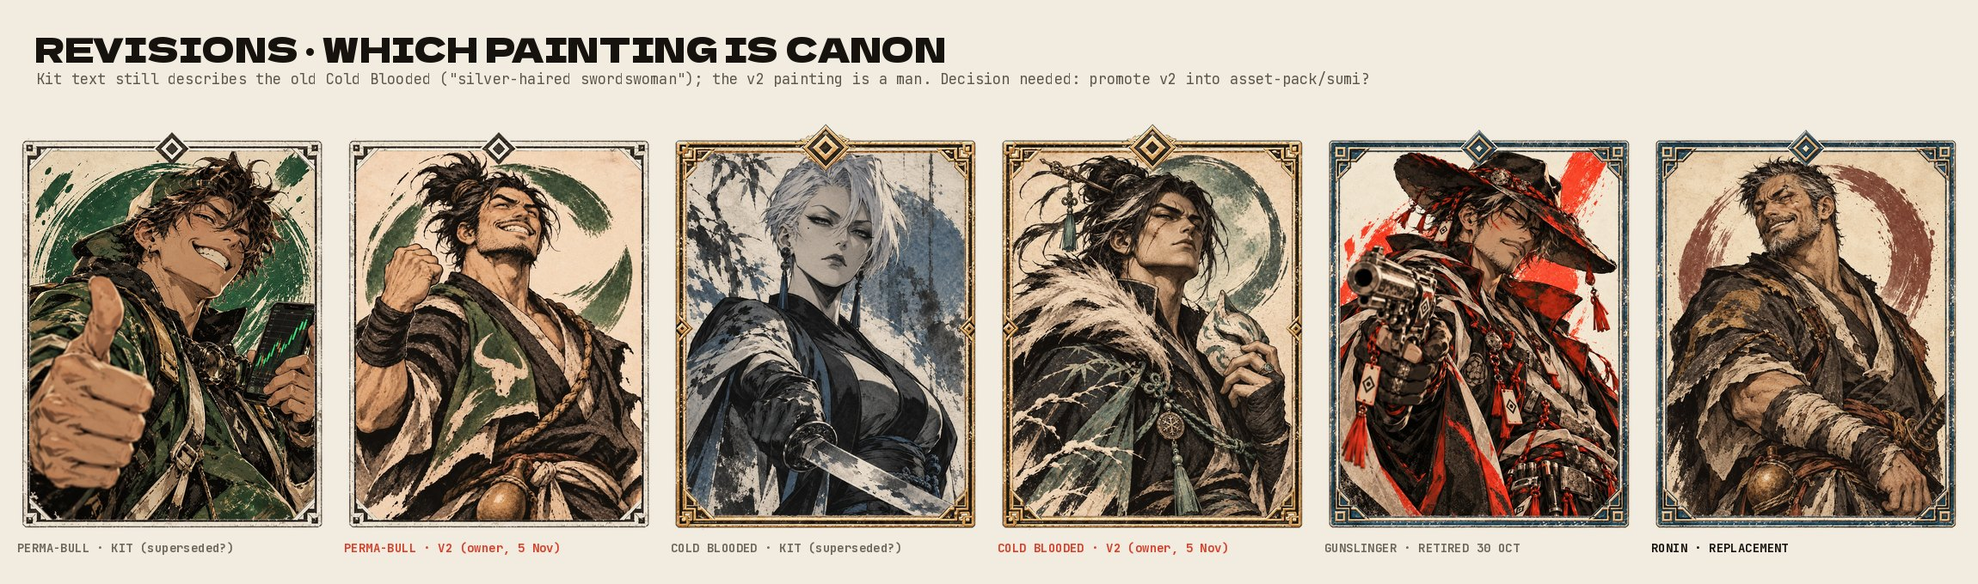
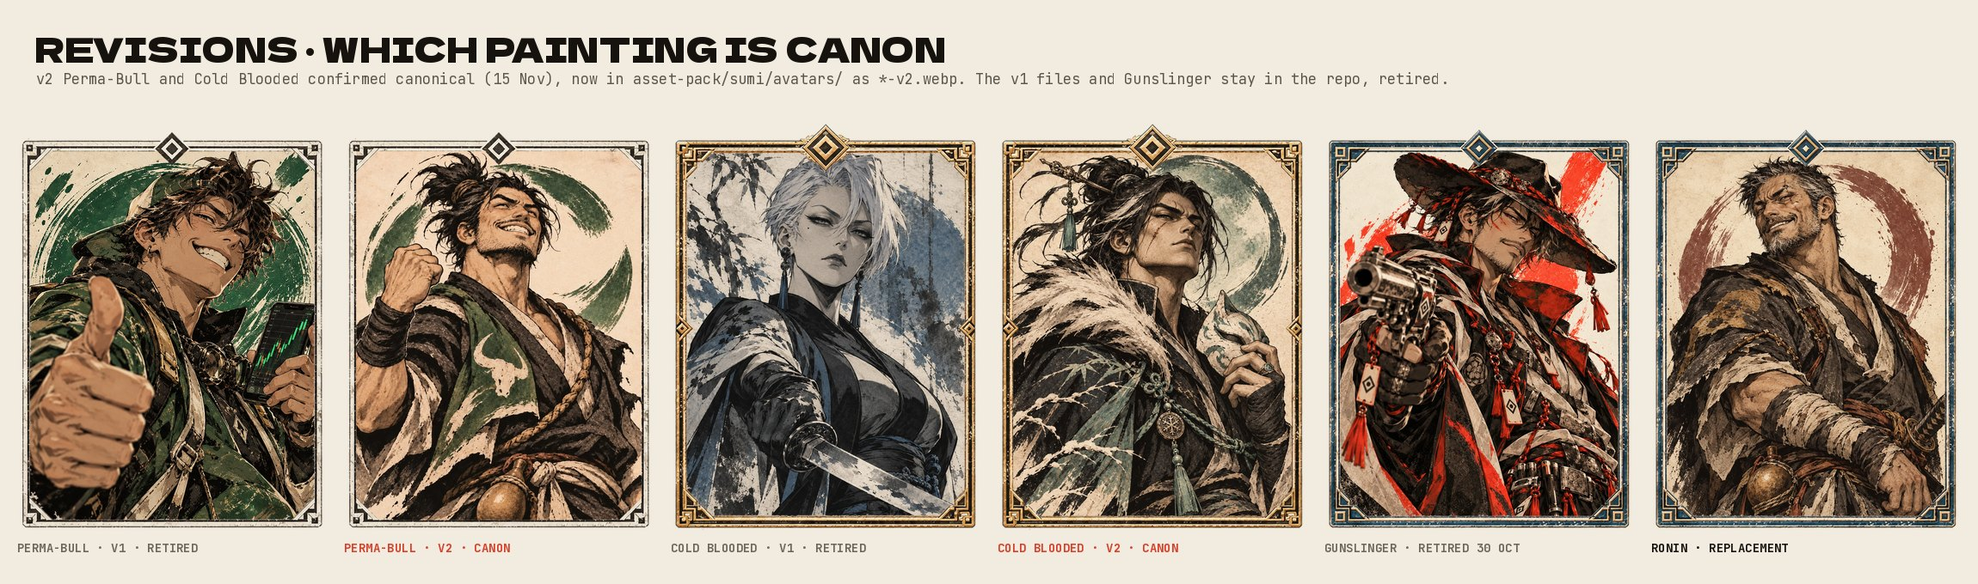
Audit docs: record the owner's 15 Nov decisions
v2 Perma-Bull and Cold Blooded canon (v1 retired), HYPE is the Elysium stake, kanji review done, USDC casting
confirmed (Perma-Bull vs Paper Hands), no merge to master yet. Inventory and contact sheets regenerated.

Claude-Session: https://claude.ai/code/session_0165shiYce6hk5U5g2i29oMM

diff --git a/docs/asset-audit/tools/contact_sheets.py b/docs/asset-audit/tools/contact_sheets.py
@@ -77,12 +77,13 @@ def kit_roster():
     return rows
 
 
-V2 = {'starter-perma-bull': 'film-flagship/assets/cast/source/starter-perma-bull.webp',
-      'cold-blooded': 'film-flagship/assets/cast/source/cold-blooded.webp'}
+# The flagship's cut-outs keep the pre-v2 ids for the two repainted characters.
+CAST_ID = {'starter-perma-bull-v2': 'starter-perma-bull', 'cold-blooded-v2': 'cold-blooded'}
+V2 = set(CAST_ID)
 
 
 def card_for(cid):
-    return blob(FLAG, V2[cid]) if cid in V2 else local(f'{KIT}/avatars/cards/{cid}.webp')
+    return local(f'{KIT}/avatars/cards/{cid}.webp')
 
 
 def sheet_cast(roster):
@@ -93,12 +94,12 @@ def sheet_cast(roster):
     for i, r in enumerate(roster):
         x, y = pad + (i % cols) * (cw + pad), pad + (i // cols) * (ch + lh + pad)
         grid.paste(fit(card_for(r['id']), cw, ch, PAPER + (255,)).convert('RGB'), (x, y))
-        tag = ' (v2, 5 Nov)' if r['id'] in V2 else ''
+        tag = ' (v2)' if r['id'] in V2 else ''
         d.text((x, y + ch + 6), r['name'].upper() + tag, font=f(FONT, 15), fill=RED if tag else INK)
         d.text((x, y + ch + 28), f"{r['fam']} · {r['unlock']}"[:40], font=f(FONT_R, 12), fill=MUTED)
         d.text((x, y + ch + 44), r['id'] + '.webp', font=f(FONT_R, 11), fill=OUTC)
-    h = header(W, 'THE CAST · CURRENT (28)', 'asset-pack/sumi/avatars/cards/*.webp 1536x2048 · red label = owner v2 painting, '
-               f'only on {FLAG.split("/", 1)[1]}:film-flagship/assets/cast/source/')
+    h = header(W, 'THE CAST · CURRENT (28)', 'asset-pack/sumi/avatars/cards/*.webp 1536x2048 · red label = v2 painting '
+               '(owner, 5 Nov; confirmed canonical 15 Nov)')
     stack([h, grid]).save(os.path.join(OUT, '01-cast-current.jpg'), quality=86)
 
 
@@ -112,11 +113,12 @@ def sheet_cutouts(roster):
     grid = Image.new('RGB', (W, rows * (ch + lh + pad) + pad), PAPER); d = ImageDraw.Draw(grid)
     for i, r in enumerate(roster):
         x, y = pad + (i % cols) * (pair + pad), pad + (i // cols) * (ch + lh + pad)
-        fig = blob(FLAG, f'film-flagship/assets/cast/{r["id"]}-fig.webp')
-        plate = blob(FLAG, f'film-flagship/assets/cast/{r["id"]}-plate.webp')
+        cid = CAST_ID.get(r['id'], r['id'])
+        fig = blob(FLAG, f'film-flagship/assets/cast/{cid}-fig.webp')
+        plate = blob(FLAG, f'film-flagship/assets/cast/{cid}-plate.webp')
         cb = checker(cw, ch); cb.alpha_composite(fit(fig, cw, ch)); grid.paste(cb.convert('RGB'), (x, y))
         grid.paste(fit(plate, cw, ch, PAPER + (255,)).convert('RGB'), (x + cw + 6, y))
-        j = J[r['id']]
+        j = J[cid]
         a = fig.convert('RGBA').getchannel('A'); hist = a.histogram(); n = fig.width * fig.height
         cover = 1 - sum(hist[:8]) / n
         cut = 'FULL' if j['fig'][1] + j['fig'][3] < j['paint'][1] - 20 else 'CROPPED AT FRAME'
@@ -128,10 +130,10 @@ def sheet_cutouts(roster):
 
 
 def sheet_revisions():
-    pairs = [('PERMA-BULL · KIT (superseded?)', local(f'{KIT}/avatars/cards/starter-perma-bull.webp'), OUTC),
-             ('PERMA-BULL · V2 (owner, 5 Nov)', blob(FLAG, V2['starter-perma-bull']), RED),
-             ('COLD BLOODED · KIT (superseded?)', local(f'{KIT}/avatars/cards/cold-blooded.webp'), OUTC),
-             ('COLD BLOODED · V2 (owner, 5 Nov)', blob(FLAG, V2['cold-blooded']), RED),
+    pairs = [('PERMA-BULL · V1 · RETIRED', local(f'{KIT}/avatars/cards/starter-perma-bull.webp'), OUTC),
+             ('PERMA-BULL · V2 · CANON', local(f'{KIT}/avatars/cards/starter-perma-bull-v2.webp'), RED),
+             ('COLD BLOODED · V1 · RETIRED', local(f'{KIT}/avatars/cards/cold-blooded.webp'), OUTC),
+             ('COLD BLOODED · V2 · CANON', local(f'{KIT}/avatars/cards/cold-blooded-v2.webp'), RED),
              ('GUNSLINGER · RETIRED 30 OCT', local(f'{KIT}/avatars/cards/gunslinger.webp'), OUTC),
              ('RONIN · REPLACEMENT', local(f'{KIT}/avatars/cards/ronin.webp'), INK)]
     cw, ch, pad, lh = 360, 480, 20, 40
@@ -141,8 +143,8 @@ def sheet_revisions():
         x = pad + i * (cw + pad)
         g.paste(fit(im, cw, ch, PAPER + (255,)).convert('RGB'), (x, pad))
         d.text((x, pad + ch + 8), t, font=f(FONT, 14), fill=col)
-    h = header(W, 'REVISIONS · WHICH PAINTING IS CANON', 'Kit text still describes the old Cold Blooded '
-               '("silver-haired swordswoman"); the v2 painting is a man. Decision needed: promote v2 into asset-pack/sumi?')
+    h = header(W, 'REVISIONS · WHICH PAINTING IS CANON', 'v2 Perma-Bull and Cold Blooded confirmed canonical (15 Nov), now in '
+               'asset-pack/sumi/avatars/ as *-v2.webp. The v1 files and Gunslinger stay in the repo, retired.')
     stack([h, g]).save(os.path.join(OUT, '03-cast-revisions.jpg'), quality=86)
 
 

diff --git a/docs/asset-audit/tools/inventory.py b/docs/asset-audit/tools/inventory.py
@@ -103,8 +103,8 @@ def classify(path, branch):
             return X, 'high', f'Gunslinger {form}: retired, replaced by Ronin (kit README)'
         name = KIT_DESC.get(stem, (stem, '?', ''))
         if stem in ('starter-perma-bull', 'cold-blooded'):
-            return U, 'medium', (f'{name[0]} {form}. Kit version; the owner committed a newer painting (v2) on the '
-                                 f'flagship branches on 5 Nov, used in the locked first ad. Probably superseded')
+            return X, 'high', (f'{stem} {form}: retired, replaced by the owner\'s v2 painting (confirmed canonical '
+                               f'15 Nov; the kit README names it)')
         return A, 'high', f'{name[0]} ({name[1]}) {form}: {name[2]}'
     if p.startswith('asset-pack/sumi/logo/'):
         if 'cyan' in b: return X, 'high', 'Retired cyan Y raster. Only allowed as the "before" shot of the 予知 reveal'
@@ -165,10 +165,10 @@ def classify(path, branch):
     # --- Branch-only Sumi-era assets ---
     if branch:
         if '/cast/source/' in p:
-            return L, 'high', ('Owner-supplied v2 painting (5 Nov), used in the flagship and the locked first ad; '
-                               'not yet in asset-pack/sumi')
+            return L, 'high', ('Copy of the owner\'s v2 painting inside the flagship project (canonical copy now in '
+                               'asset-pack/sumi/avatars/)')
         if '/avatars/portraits/' in p and '-v2' in b and ('perma' in b or 'cold' in b):
-            return L, 'high', 'Owner v2 portrait (app framing), used in the locked first ad'
+            return L, 'high', 'Copy of the kit\'s v2 portrait used for app-framed slots in the locked first ad'
         if '/avatars/portraits/' in p:
             return A, 'high', 'Copy of the kit portrait used for app-framed small slots in the locked first ad'
         if '/cast/raw/' in p:

diff --git a/docs/asset-audit/ASSET_INVENTORY.md b/docs/asset-audit/ASSET_INVENTORY.md
@@ -1,6 +1,6 @@
 # Yochi asset inventory (15 Nov 2026)
 
-The full per-file list (658 assets: path, branch, dimensions, transparency, duration, first/last commit, author,
+The full per-file list (662 assets: path, branch, dimensions, transparency, duration, first/last commit, author,
 tier, confidence, purpose) is **`inventory.csv`**, generated by `tools/inventory.py`. This file summarises it and
 records the evidence behind each tier.
 
@@ -20,6 +20,8 @@ records the evidence behind each tier.
   - 5 Nov: the owner adds **v2 paintings of Perma-Bull and Cold Blooded**, but only into `film-flagship/assets/cast/source/` on the flagship branches.
   - 5–7 Nov: the YOCHI × ELYSIUM cards (landscape v3 **approved**), owner-supplied official Elysium marks, the owner's 4K capture pack, the gameplay trailers.
   - 14 Nov: the USDC short (v1, under review).
+  - 15 Nov: the owner confirms v2 Perma-Bull and Cold Blooded as canon (now in the kit), HYPE as the Elysium stake,
+    the kanji review as done, and the casting for the USDC rework. No merge to `master` yet.
 - **`master` stops at 3 Nov.** None of the Sumi films are merged. Approval is recorded in the branches' own READMEs
   ("the approved flagship", "the approved cut", "The locked film"), not by merges. That's adequate evidence, but
   it's indirect (see OPEN_DECISIONS).
@@ -29,8 +31,9 @@ records the evidence behind each tier.
 | asset | path | dims · alpha | provenance | confidence |
 |---|---|---|---|---|
 | **Brand rules** | `asset-pack/sumi/SHARED-RULES.md`, `asset-pack/sumi/README.md` | text | PinkMammoth, 28 Oct (`8a2fc71`) | high: the documented source of truth |
-| **Painted cast: 26 cards** | `asset-pack/sumi/avatars/cards/<id>.webp` (all but Gunslinger, Perma-Bull, Cold Blooded) | 1536×2048 · transparent card corners only (~8%) | PinkMammoth, 28 Oct | high |
-| **Painted cast: 26 portraits** | `asset-pack/sumi/avatars/portraits/<id>.webp` | 512×683 · opaque | same | high (small slots only: too soft for full frame) |
+| **Painted cast: 28 cards** | `asset-pack/sumi/avatars/cards/<id>.webp`, ids as in the kit README's cast table | 1536×2048 · transparent card corners only (~8%) | PinkMammoth, 28 Oct; v2 below | high |
+| **Painted cast: 28 portraits** | `asset-pack/sumi/avatars/portraits/<id>.webp` | 512×683 · opaque | same | high (small slots only: too soft for full frame) |
+| **Perma-Bull v2, Cold Blooded v2** | `asset-pack/sumi/avatars/{cards,portraits}/{starter-perma-bull,cold-blooded}-v2.webp` | as above | painted by the owner 5 Nov (`e2ad110`, on the flagship branches); confirmed canon and copied into the kit 15 Nov (`b43ee50`), byte-identical | high |
 | Ronin card + portrait | `…/cards/ronin.webp`, `…/portraits/ronin.webp` | as above | PinkMammoth, 30 Oct (`99cb12b`) | high |
 | **Yochi seal (main mark)** | `asset-pack/sumi/logo/yochi-seal-paper.svg`, `yochi-seal-sumi.svg` | vector, transparent | 28 Oct | high |
 | Yochi plain mark | `asset-pack/sumi/logo/yochi-mark-paper.svg`, `yochi-mark-sumi.svg` | vector | 28 Oct | high |
@@ -50,7 +53,7 @@ records the evidence behind each tier.
 
 | asset | path | dims · alpha | evidence | confidence |
 |---|---|---|---|---|
-| **Perma-Bull v2, Cold Blooded v2 paintings** | `claude/yochi-first-ad-order-a:film-flagship/assets/cast/source/{starter-perma-bull,cold-blooded}.webp` (+ `-portrait.webp`) and `assets/avatars/portraits/*-v2.webp` | 1536×2048 card; 512×683 portrait | owner-added 5 Nov (`e2ad110`), used in the locked first ad | high that they're current; **not yet in the kit** |
+| Flagship copies of the v2 paintings | `claude/yochi-first-ad-order-a:film-flagship/assets/cast/source/*.webp`, `assets/avatars/portraits/*-v2.webp` | 1536×2048; 512×683 | byte copies of the kit's v2 files | high (use the kit copy) |
 | **Cast cut-outs (2.5D layers)** | `…:film-flagship/assets/cast/<id>-fig.webp` (alpha), `<id>-plate.webp`, `<id>-card.webp`, `cast.json`, `raw/` mattes | ~1353×1807 fig (70–98% fill), 1044×1371 plate, 768×1024 card | built 3 Nov for THE CAST, reused in approved films | high (see the matte defects in ANIMATION_FEASIBILITY) |
 | App crop windows | `…:film-flagship/assets/avatars/crops.json` | | from `avatar-roster.ts` | high |
 | Achievement badges | `…:film-flagship/assets/achievements/{cold_blooded,duel_win_10}.webp` | 256×256, alpha | copied from the app | medium-high |
@@ -66,13 +69,11 @@ records the evidence behind each tier.
 
 | asset | why |
 |---|---|
-| `asset-pack/sumi/avatars/{cards,portraits}/starter-perma-bull.webp`, `…/cold-blooded.webp` | Probably superseded by the owner's v2 paintings, which aren't in the kit yet. The kit README still describes Cold Blooded as a "silver-haired swordswoman"; v2 is a man. See `contact-sheets/03-cast-revisions.jpg` |
 | `asset-pack/audio/trailer.wav` | The September track. The v2 prompts still name it as a fallback for THE CAST, but no Sumi film uses it |
 | `shorts/01-usdc-eliminated/deliverables/*` | v1 of the USDC short: invented pixel fighters, so off-brand (see USDC_HYPE_REWORK_PLAN) |
 | `shorts/src/films/usdc/cast.js`, `shorts/src/lib/pixel.js`, `pixfont.js` | Pixel-art sprite kit and pixel font. Not part of the brand; don't reuse for cast work |
 | `claude/keen-rubin-vpzk4u:film-yochi/` | 17 Oct 予知 sumi-e film, made before the kit and never carried forward. Its brush approach was rebuilt in the flagship's `brush.js`. Don't treat it as current rules |
-| Kanji 氷 and 師 in the first ad | From the app's glyph registry (`seal-glyphs.ts`), but outside SHARED-RULES' allowed list. All glyphs are pending native review |
-| 遊 on Grudge Settled's painting | Part of the artwork, flagged for the kanji review |
+| 遊 on Grudge Settled's painting | Part of the artwork. The 15 Nov answer ("they're fine") covered the glyphs the films use; whether it covered this one isn't recorded |
 
 ## LEGACY / DO NOT USE
 
@@ -90,6 +91,7 @@ history only. Nothing was deleted or moved. See `contact-sheets/05-legacy-do-not
 | Retired fonts and palette | `fonts+colours.md` (Chakra Petch, VT323, cyan `#18e0ff`), `film/assets/fonts/` |
 | September trailer and its brief | `film/**` (incl. `CHARACTER_AUDIT.md`, `TREATMENT.md`), `prompt.md`, `asset-pack/audio/{music-structure.md,waveform.png}` |
 | Gunslinger | `asset-pack/sumi/avatars/{cards,portraits}/gunslinger.webp` (replaced by Ronin) |
+| Perma-Bull v1, Cold Blooded v1 (the silver-haired swordswoman) | `asset-pack/sumi/avatars/{cards,portraits}/{starter-perma-bull,cold-blooded}.webp` (replaced by v2, 15 Nov) |
 
 ## Gaps
 

diff --git a/docs/YOCHI_MOTION_STYLE_GUIDE.md b/docs/YOCHI_MOTION_STYLE_GUIDE.md
@@ -21,8 +21,8 @@ on one, it says so.
 
 | need | use | notes |
 |---|---|---|
-| Characters, full frame | `asset-pack/sumi/avatars/cards/<id>.webp` (1536×2048) | **except** Perma-Bull and Cold Blooded: use the owner's v2 at `claude/yochi-first-ad-order-a:film-flagship/assets/cast/source/` (OPEN_DECISIONS #2) |
-| Characters, layered for 2.5D | `claude/yochi-first-ad-order-a:film-flagship/assets/cast/<id>-{fig,plate,card}.webp` + `cast.json` | figure cut-out with alpha, its own ground plate, head point. Check the defects in `docs/asset-audit/ANIMATION_FEASIBILITY.md` |
+| Characters, full frame | `asset-pack/sumi/avatars/cards/<id>.webp` (1536×2048), ids as in the kit README's cast table | Perma-Bull and Cold Blooded are **v2** (`starter-perma-bull-v2.webp`, `cold-blooded-v2.webp`). The v1 files are retired |
+| Characters, layered for 2.5D | `claude/yochi-first-ad-order-a:film-flagship/assets/cast/<id>-{fig,plate,card}.webp` + `cast.json` | figure cut-out with alpha, its own ground plate, head point. Not merged to `master` yet, by decision. Its `starter-perma-bull` and `cold-blooded` entries are already cut from v2. Check the defects in `docs/asset-audit/ANIMATION_FEASIBILITY.md` |
 | Characters, small slots / avatars | `asset-pack/sumi/avatars/portraits/<id>.webp` + the app's crop window (`film-flagship/assets/avatars/crops.json` / `reference/code/avatar-roster.ts`) | 512×683, too soft above ~300 px |
 | Main logo | `asset-pack/sumi/logo/yochi-seal-paper.svg` / `yochi-seal-sumi.svg` | stamps down like a win, never redrawn, never cyan |
 | Small lockup | `asset-pack/sumi/logo/yochi-mark-paper.svg` / `-sumi.svg` + YOCHI in Dela Gothic One | |
@@ -41,6 +41,7 @@ Visual references: `docs/asset-audit/contact-sheets/01-cast-current.jpg` (the ca
 
 **Never use:** anything in `asset-pack/characters/`, `asset-pack/avatars/`, `asset-pack/props/`,
 `asset-pack/raw-clips/`, `stills/`, `film/assets/`, the 16:9 mode cards, `Yochi_logo.png`, `gunslinger.webp`,
+the v1 `starter-perma-bull.webp` and `cold-blooded.webp`,
 `fonts+colours.md`'s fonts and palette, or the shorts' pixel sprite kit for cast work. The full list is in
 `docs/asset-audit/ASSET_INVENTORY.md`.
 
@@ -59,10 +60,13 @@ Visual references: `docs/asset-audit/contact-sheets/01-cast-current.jpg` (the ca
 - **Candles are standard OHLC**: green `#3ddc84` / crimson `#ff4d6d` (paper `#15804a` / `#c2304d`). No brush, pixel
   or stylised candles.
 - **Gold `#e0b25a`** is for tier metal only.
-- **Kanji:** only the allowed list (予知 対 決 勝 敗 命 連勝), all pending native review. List every glyph and
-  timecode in the film's README. (The app registry's 氷 / 師 are an open question: OPEN_DECISIONS #5.)
+- **Kanji:** only the allowed list (予知 対 決 勝 敗 命 連勝, plus 氷 for Cold Blooded and 師 for Duel Master).
+  The native review is done and these are fine. Any other glyph needs review first. List every glyph and timecode
+  in the film's README.
 - **Copy:** UP / DOWN, never PUMP / DUMP. "Call" only in the tagline, CALLED IT and YOUR CALL. No em-dashes, no "X. Y."
-  slogans, none of the banned words, a 5% rake, money in USDC, invented lowercase handles.
+  slogans, none of the banned words, a 5% rake, invented lowercase handles.
+- **Money:** USDC everywhere, **except on Elysium, where the stake is HYPE** (owner, 15 Nov). Yochi × Elysium
+  films may show HYPE as what players put in and take from the pot. Don't carry that into non-Elysium films.
 - **Restraint:** drama from scale, timing and silence. Grain and paper are welcome; glow only on a fresh win amount.
 
 ## 3. Typography and layout constraints
@@ -93,8 +97,8 @@ Measured limits (check with `docs/asset-audit/tools/text_audit.mjs`):
 
 ## 4. Characters
 
-- **Only the 28 painted characters** in the kit's cast table (Ronin included, Gunslinger retired; v2 Perma-Bull and
-  Cold Blooded, OPEN_DECISIONS #2). Use their names exactly.
+- **Only the 28 painted characters** in the kit's cast table (Ronin included; v2 Perma-Bull and v2 Cold Blooded,
+  a man; Gunslinger and both v1 paintings retired). Use their names exactly.
   **Never invent a character, repaint, recolour, redraw or restyle one** (pixel, 3D, vector, "inspired by").
 - Allowed operations: crop, mask, layer, parallax, scale, move, grade to grey for a loss, ink silhouette for a
   locked reward, round face crop, card deal and flip.

diff --git a/docs/asset-audit/OPEN_DECISIONS.md b/docs/asset-audit/OPEN_DECISIONS.md
@@ -1,28 +1,16 @@
-# Decisions needed (asset audit, 15 Nov 2026)
+# Decisions (asset audit, 15 Nov 2026)
 
-Ordered by what blocks the USDC rework first. Each has a recommendation; nothing has been decided on your behalf.
+## Resolved (owner, 15 Nov 2026)
 
-1. **Who fights in the USDC short?** Recommended: Perma-Bull (YOU, picks HYPE) against Paper Hands (USDC), with the
-   cast staying *players* rather than tokens. Alternatives: Doomer as USDC (continuity with the first ad), or
-   Rampage for the impact frame. See USDC_HYPE_REWORK_PLAN, "Casting".
+| # | question | answer | where it's recorded |
+|---|---|---|---|
+| 1 | Who fights in the USDC short? | The recommendation stands: **Perma-Bull (YOU, picks HYPE) against Paper Hands (USDC)**, with the cast as players | USDC_HYPE_REWORK_PLAN |
+| 2 | Are the v2 paintings canon? | **Yes.** There's a new Perma-Bull and a new Cold Blooded. Now in the kit as `asset-pack/sumi/avatars/{cards,portraits}/{starter-perma-bull,cold-blooded}-v2.webp`; v1 files kept, marked retired | kit README cast table (`b43ee50`) |
+| 3 | Merge the Sumi branches to `master`? | **Not yet.** The canonical cut-outs and engine stay on `claude/yochi-first-ad-order-a` for now | this file |
+| 4 | Is HYPE the stake on Elysium? | **Yes, HYPE, not USDC.** The short's premise is true | SHARED-RULES copy rules, Elysium exception |
+| 5 | Kanji review | **Done, and the glyphs are fine**, including 氷 and 師 from the first ad. New glyphs still need review | SHARED-RULES kanji rules |
 
-2. **Promote the v2 paintings into the kit?** The owner's 5 Nov Perma-Bull and Cold Blooded v2 exist only on the
-   flagship branches (`film-flagship/assets/cast/source/`). Recommended: copy them into `asset-pack/sumi/avatars/`
-   (as `*-v2.webp`, the kit's own convention), mark the old ones retired in the kit README the way Gunslinger is,
-   and fix Cold Blooded's description (the v2 painting is a man). Does the app ship v2 too?
-
-3. **Merge the Sumi work to `master`?** `master` stops at 3 Nov. The locked first ad, the cut-out pipeline and the
-   approved cards live on unmerged branches, so a fresh session from `master` doesn't see them. Recommended: merge,
-   or at least promote `film-flagship/assets/cast/` and `src/lib/{cast,ui,brush}.js` into a shared location.
-
-4. **The USDC message vs the copy rules.** SHARED-RULES: "Money is USDC. HYPE is the asset, never what you win." The
-   short's premise is "choose your collateral … USDC has been eliminated … just HYPE". If Yochi on Elysium really
-   stakes HYPE instead of USDC, the shared rules need an Elysium exception. If it doesn't, the premise needs a
-   rethink. This is a product-truth question only you can answer.
-
-5. **Kanji outside the allowed list.** The first ad used 氷 and 師 from the app's glyph registry. SHARED-RULES allows
-   only 予知 対 決 勝 敗 命 連勝. Does the app registry now override the shared list? Every glyph is still pending
-   native review. Has the November review happened?
+## Still open
 
 6. **The 48 px key-text floor vs the approved cards.** SHARED-RULES wants key text at ~48 px cap at 1080p, but the
    approved landscape card and the USDC end card set the URL in ~25 px cap mono. Is the URL "key text"?
@@ -40,8 +28,11 @@ Ordered by what blocks the USDC rework first. Each has a recommendation; nothing
 
 10. **Retire `trailer.wav` formally?** It's still named as a fallback in the v2 prompts.
 
-11. **Mainnet gameplay cut B** (`film-gameplay`) is marked "release only once real-money play is open on Elysium". Has
-    that happened? It also decides whether the USDC short's URL stays `testnet.yochigg.xyz`.
+11. **Mainnet.** Gameplay cut B (`film-gameplay`) is "release only once real-money play is open on Elysium". Has that
+    happened? It also decides whether the USDC short's URL stays `testnet.yochigg.xyz`.
 
 12. **Foley and textures.** Do you want recorded hanko and brush sounds, or scanned washi and ink textures, added to
     the kit? There are none now. Everything is procedural or synthesised.
+
+13. **The app's glyph registry** (`asset-pack/sumi/reference/code/seal-glyphs.ts`) still marks every glyph
+    `review: 'pending'`. That file is a copy of app code, so I left it. Flip the flags in the app itself.

diff --git a/docs/asset-audit/USDC_HYPE_REWORK_PLAN.md b/docs/asset-audit/USDC_HYPE_REWORK_PLAN.md
@@ -60,16 +60,20 @@ Keep v1's **beats, timing map (`timing.json`, 150 BPM) and soundtrack**, so the 
 Replace the world and the fighters with the painted cast, animated only with rungs 0–4 of the method ladder in
 `ANIMATION_FEASIBILITY.md`. No new character art.
 
-### Casting (needs your decision, see OPEN_DECISIONS #1)
+### Casting (confirmed 15 Nov)
 
-Recommended: **the cast stay players, not tokens.** That matches every approved film, where a painting is a
-player's face.
+**Perma-Bull (v2) as YOU, picking HYPE, against Paper Hands as USDC.** The cast stay players, not tokens, which
+matches every approved film, where a painting is a player's face. The premise is confirmed too: on Elysium the
+stake is HYPE, not USDC (SHARED-RULES now carries the Elysium exception), so "CHOOSE YOUR COLLATERAL … USDC HAS BEEN
+ELIMINATED … JUST HYPE" stands. The kanji used (決 対 敗) are reviewed and fine.
+
+The options considered:
 
 | side | painting | why | how it's named on screen |
 |---|---|---|---|
-| HYPE (1P, your pick) | **Perma-Bull** (v2) | He's **YOU** in THE CAST, the flagship and the locked first ad. His raised fist is a built-in punch | **YOU** with ▲ HYPE as the pick, or keep **HYPE** as the plate name |
-| USDC (CPU) | **Paper Hands** | Glasses, a paper slip clutched like an approval form, terrified: "needs approval" in one image. Clean matte, head clear | **USDC** as the plate, or an invented lowercase handle |
-| impact-frame alternative | **Rampage** | His fist already comes at the lens; a punch-in on a single layer is the strongest impact frame in the set | only if you're happy for the hit to cut to a second character |
+| HYPE (1P, your pick) · **chosen** | **Perma-Bull** (v2) | He's **YOU** in THE CAST, the flagship and the locked first ad. His raised fist is a built-in punch | **YOU** with ▲ HYPE as the pick, or keep **HYPE** as the plate name |
+| USDC (CPU) · **chosen** | **Paper Hands** | Glasses, a paper slip clutched like an approval form, terrified: "needs approval" in one image. Clean matte, head clear | **USDC** as the plate, or an invented lowercase handle |
+| impact-frame alternative (not chosen; the hit stays on Perma-Bull's fist) | **Rampage** | His fist already comes at the lens; a punch-in on a single layer is the strongest impact frame in the set | only if you're happy for the hit to cut to a second character |
 
 Alternatives for USDC: Strategist (clipboard of plans) or Doomer (the first ad's rival). The trade-off is that
 Paper Hands' "i'm out" take is the funniest fit for being eliminated, while Doomer keeps continuity with the first
@@ -94,7 +98,7 @@ ad. Either way, no painting is recoloured. Tying USDC's blue to a character woul
 ### Implementation steps (when approved)
 
 1. Branch the short as `shorts/02-…` or a v2 folder, so v1 stays reproducible. Don't overwrite v1's deliverables.
-2. Copy from `claude/yochi-first-ad-order-a:film-flagship/` into `shorts/`: `src/lib/cast.js`, `src/lib/ui.js`,
+2. Copy from `claude/yochi-first-ad-order-a:film-flagship/` (not merged to `master`, by decision) into `shorts/`: `src/lib/cast.js`, `src/lib/ui.js`,
    `src/lib/brush.js`, and only the assets the short needs (`assets/cast/{starter-perma-bull,starter-paper-hands}-{fig,plate,card}.webp`,
    `assets/cast/cast.json`, `assets/avatars/crops.json` and the six tile portraits). The shorts engine already shares
    `core/` and `lib/draw.js` with the flagship, so these drop in.

diff --git a/docs/asset-audit/README.md b/docs/asset-audit/README.md
@@ -5,7 +5,7 @@ overwritten, and no film was changed. Everything here is new, under `docs/`.
 
 | deliverable | file |
 |---|---|
-| 1. Asset inventory | `ASSET_INVENTORY.md` (summary and evidence) · `inventory.csv` (all 658 assets: dims, alpha, Git provenance, tier, confidence) |
+| 1. Asset inventory | `ASSET_INVENTORY.md` (summary and evidence) · `inventory.csv` (all 662 assets: dims, alpha, Git provenance, tier, confidence) |
 | 2. Contact sheets | `contact-sheets/01-cast-current.jpg` · `02-cast-cutouts.jpg` · `03-cast-revisions.jpg` · `04-ui-reference.jpg` · `05-legacy-do-not-use.jpg` · `06-brand-system.png` · `07-matte-problems.jpg` |
 | 3. Motion style guide | `../YOCHI_MOTION_STYLE_GUIDE.md` |
 | 4. Character-animation approach | `ANIMATION_FEASIBILITY.md` (method ladder, per-character table) |
